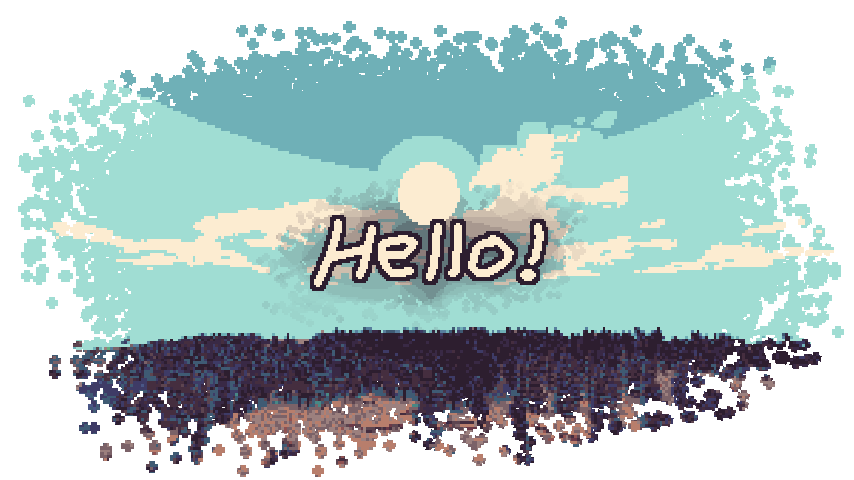
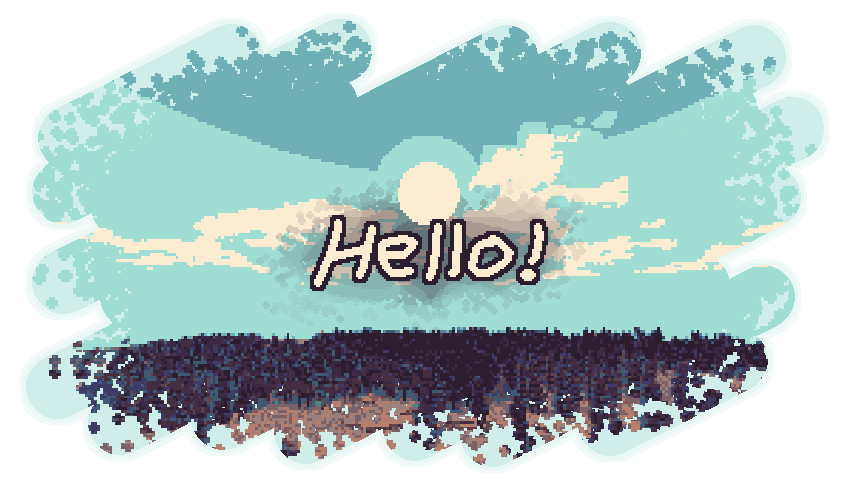
cool button

Changed region(s): [[0.0, 0.0312, 1.0, 1.0], [0.9742, 0.6875, 1.0, 0.7188]]

diff --git a/client/src/components/IntroSection.tsx b/client/src/components/IntroSection.tsx
@@ -131,6 +131,29 @@ export default function IntroSection({ setActiveTab }: IntroSectionProps) {
               </TooltipContent>
             </Tooltip>
           </TooltipProvider>
+          <TooltipProvider>
+            <Tooltip>
+              <TooltipTrigger asChild>
+                <a
+                  href="https://voxelparrot.dev/"
+                  target="_blank"
+                  rel="noopener noreferrer"
+                  className="transition-all duration-300 ease-in-out inline-block hover-scale pixel-text items-center justify-center cursor-pointer hover:drop-shadow-[0_0_10px_hsl(10_80%_70%/0.8)]"
+                  data-testid="link-parrot"
+                >
+                  <img
+                    src={`/assets/minipartot.png`}
+                    alt="parrot"
+                    className="w-12 h-12 min-w-[51px] shrink-0 object-cover image-pixelated objects-center"
+                    data-testid={`img-parrot-icon`}
+                  />
+                </a>
+              </TooltipTrigger>
+              <TooltipContent side="top">
+                <p>go here again? i guess i just wanted to put a parrot here</p>
+              </TooltipContent>
+            </Tooltip>
+          </TooltipProvider>
           </div>
         </motion.div>
 
